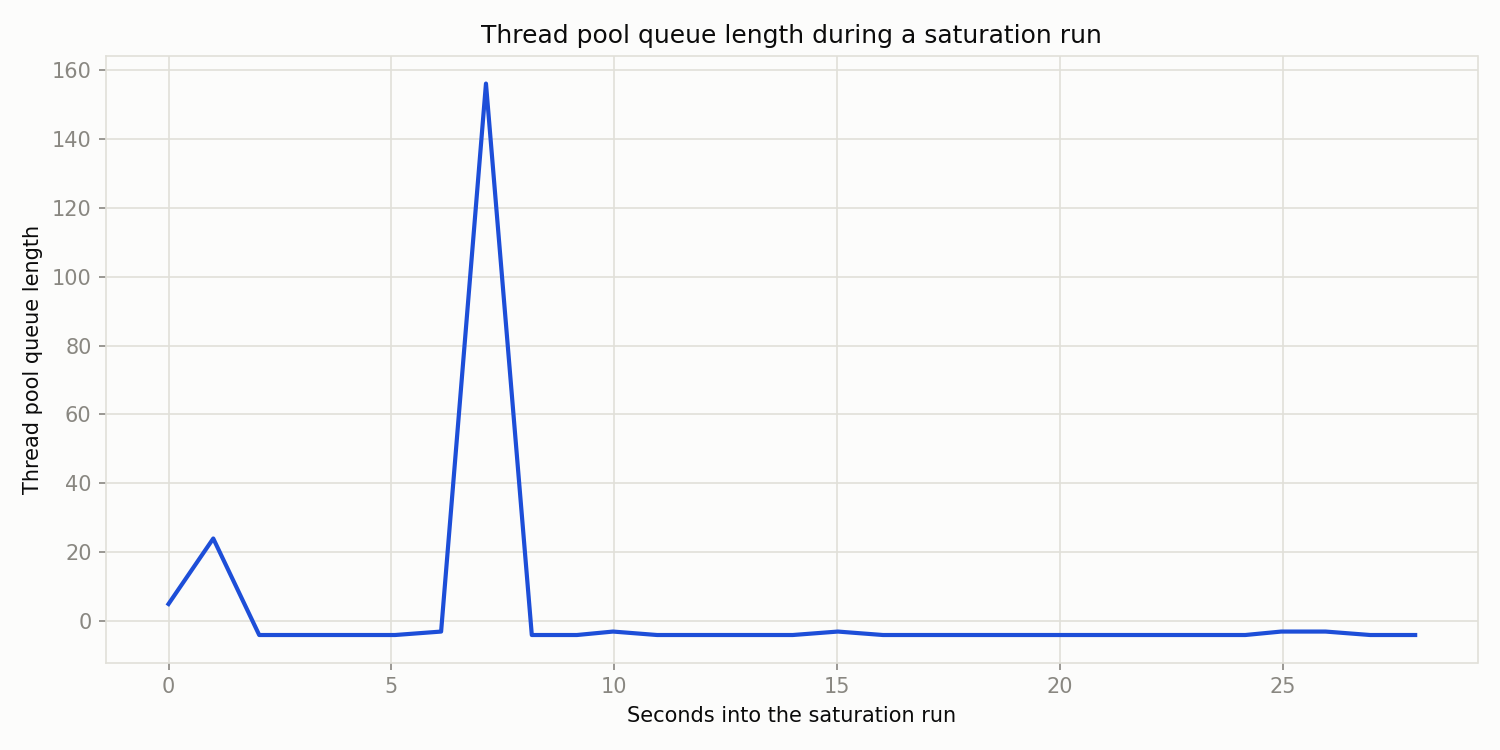
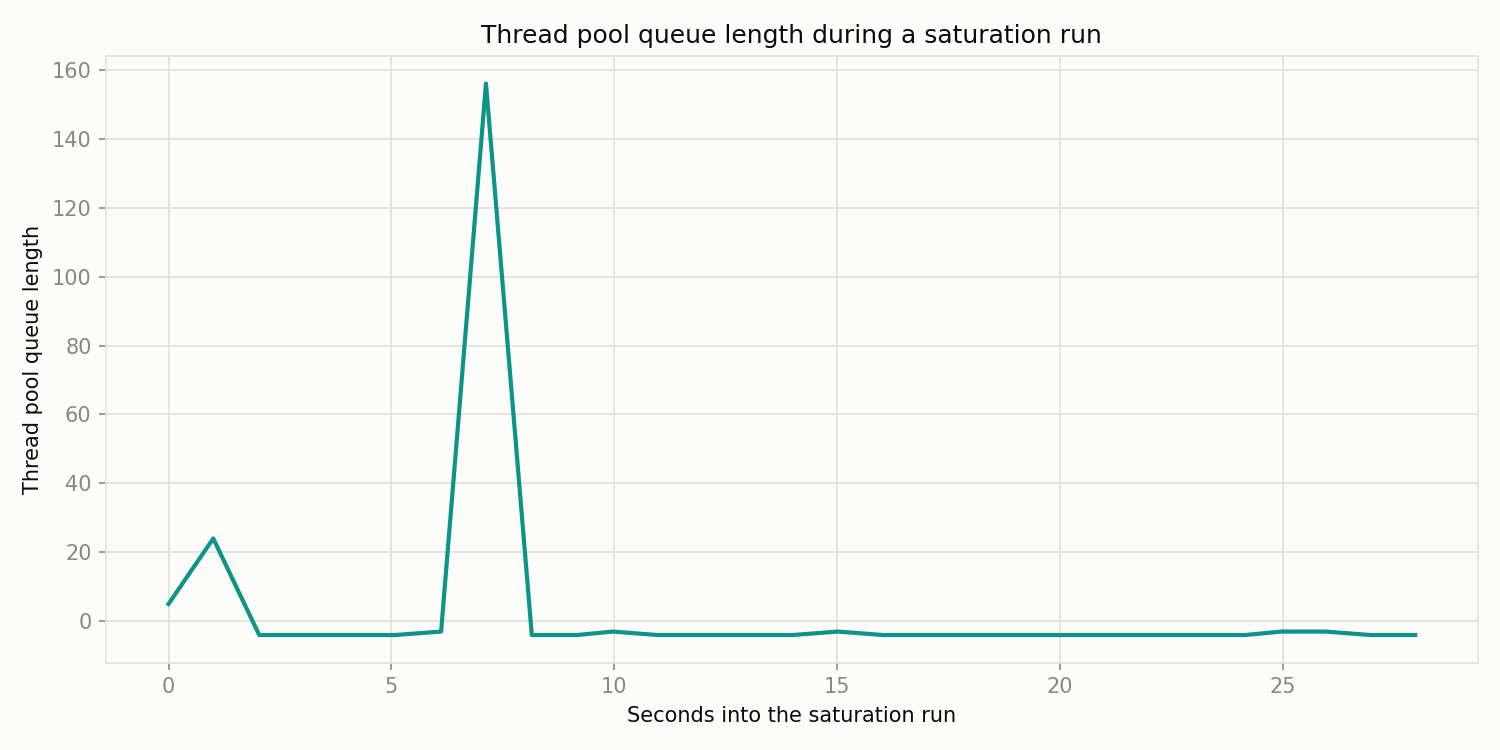
feat(bench): tighten chart palette to blue, teal, and green only

diff --git a/companion-code/async-await-web-api-cloud-costs/scripts/make_charts.py b/companion-code/async-await-web-api-cloud-costs/scripts/make_charts.py
@@ -22,12 +22,12 @@ SURFACE = "#fcfcfb"
 INK = "#0b0b0b"
 MUTED = "#898781"
 GRID = "#e1e0d9"
-# Derived from the post's cover image (cloud-city-r4vDq.jpg: navy/blue sky,
-# cyan/teal city lights, green data-stream glow), re-stepped and validated
-# with the dataviz skill's validate_palette.js (light mode, surface #fcfcfb):
-# all six categorical checks pass, worst adjacent pair ΔE 10.3 (CVD) / 23.3 (normal).
-CATEGORICAL = ["#1d4ed8", "#d97706", "#0d9488", "#7c3aed",
-               "#16a34a", "#be185d", "#0891b2", "#a16207"]
+# Blue/teal/green/cyan only, matching the post's cover image (cloud-city-r4vDq.jpg:
+# navy/blue sky, cyan/teal city lights, green data-stream glow) with no warm
+# accent hues. Re-stepped and validated with the dataviz skill's
+# validate_palette.js (light mode, surface #fcfcfb, adjacent pairs): all six
+# categorical checks pass, worst adjacent pair ΔE 16.1 (CVD) / 17.4 (normal).
+CATEGORICAL = ["#0d9488", "#1d4ed8", "#16a34a", "#0891b2"]
 
 plt.rcParams.update({
     "figure.facecolor": SURFACE,
